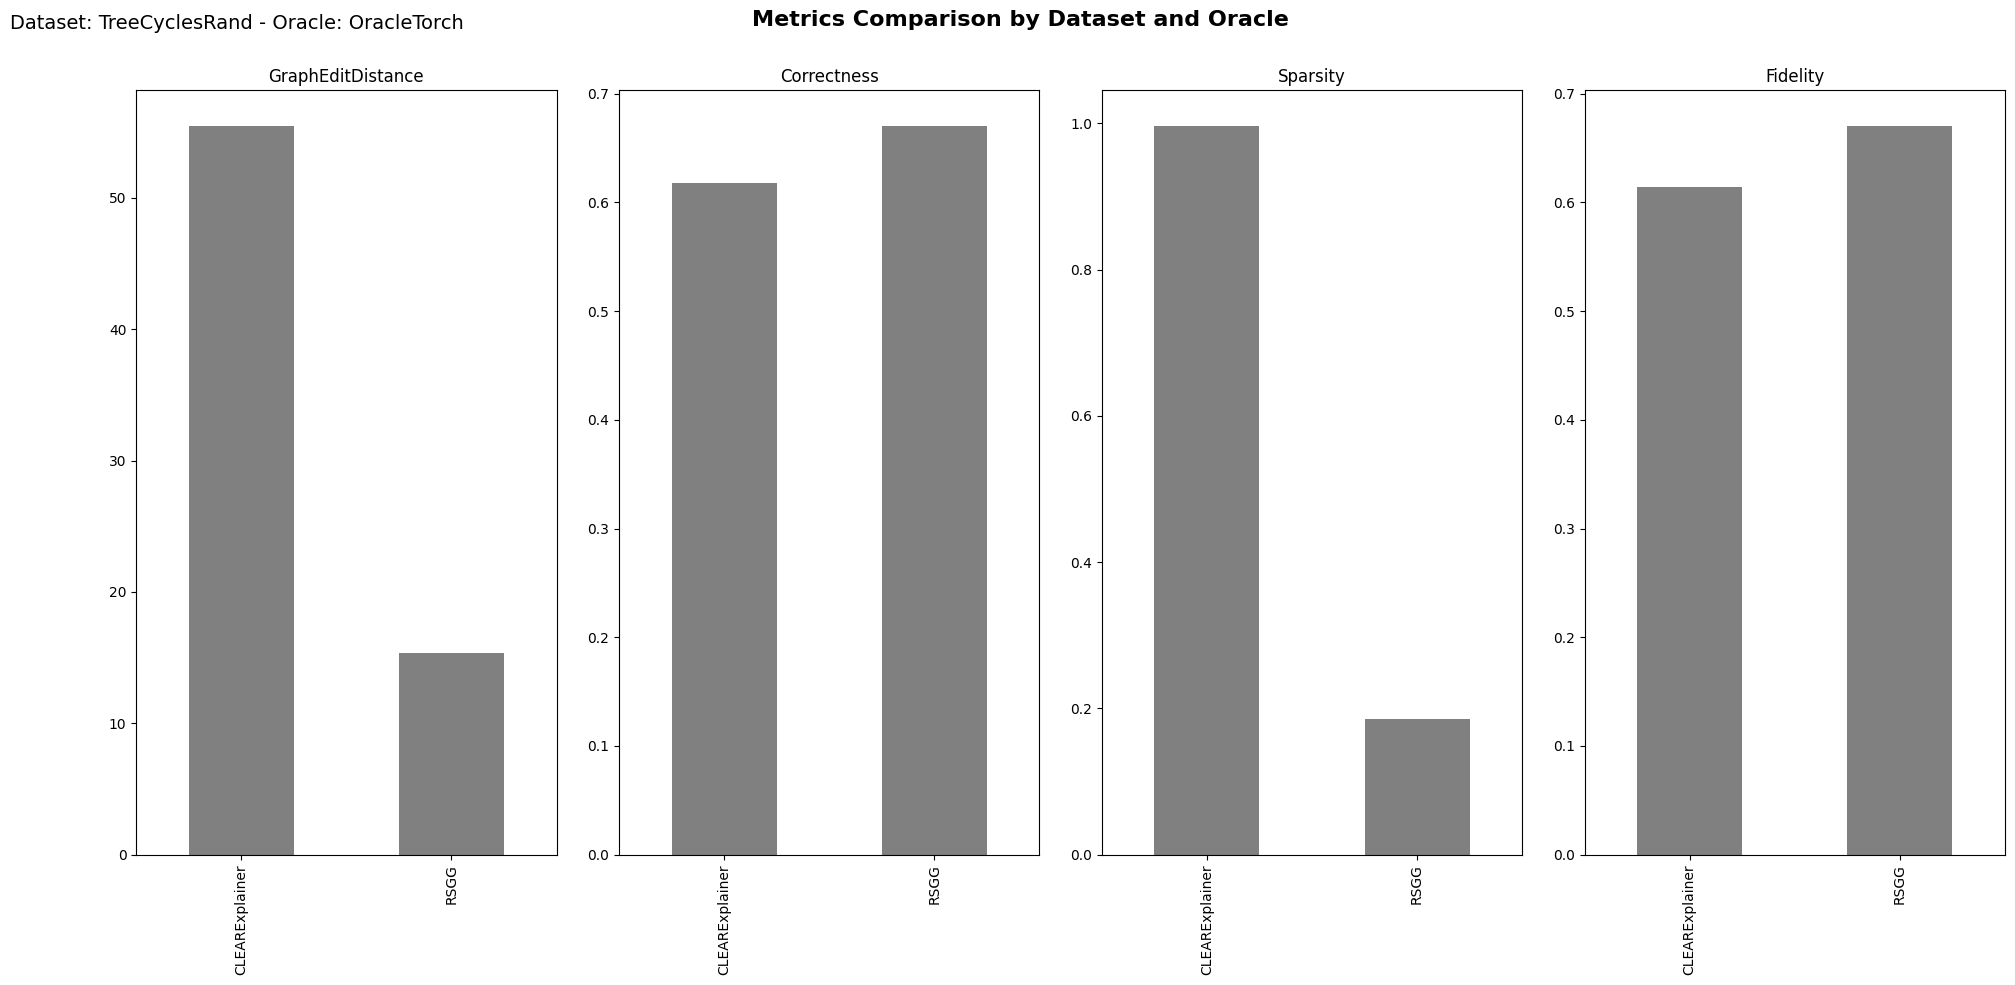
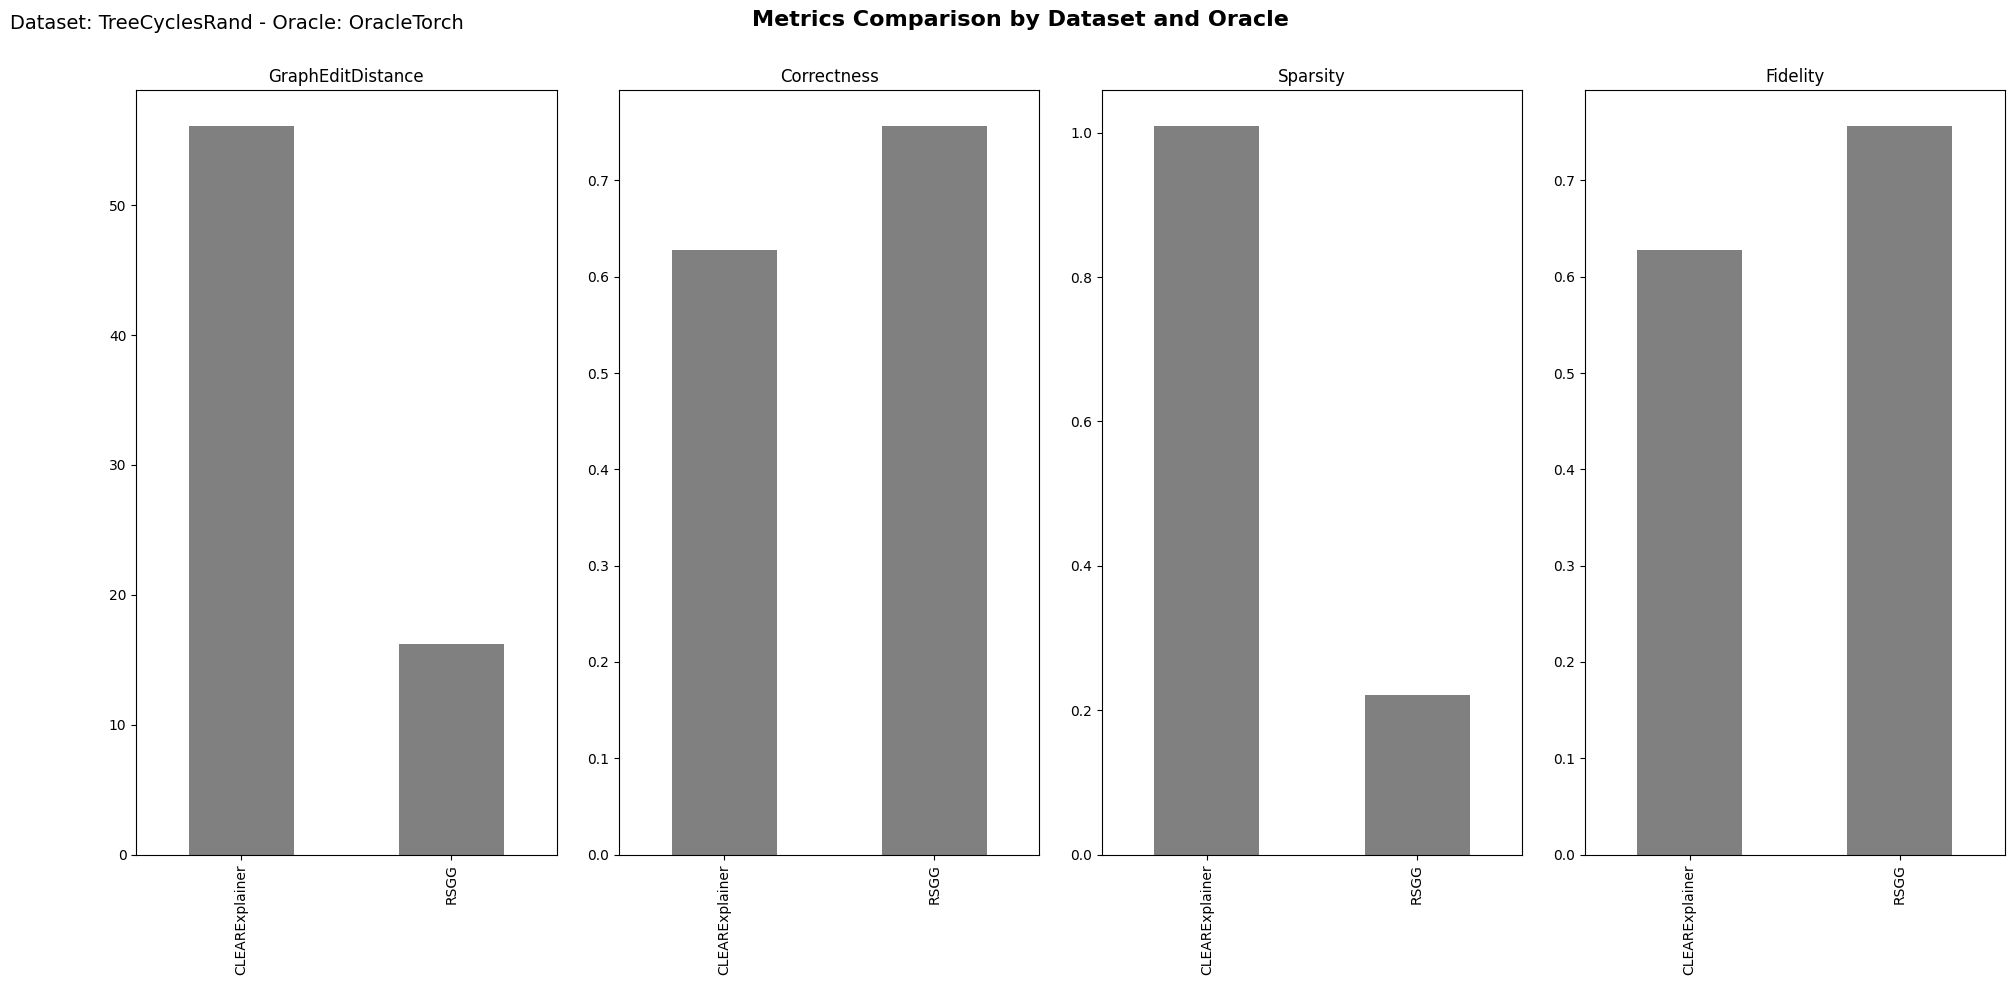
early stopping + tc64

diff --git a/src/data_analysis/data_analyzer.py b/src/data_analysis/data_analyzer.py
@@ -80,6 +80,8 @@ class DataAnalyzer():
                 # Aggregate the measures
                 aggregated_metrics = []
                 for m_class, m_value in results_dict['results'].items():
+                    if 'Metric' not in m_class:
+                        continue
                     metric_name = m_class.split('.')[-1]
                     if first_iteration: # The metric names are only needed the first time
                          metric_names.append(metric_name)

diff --git a/src/utils/visualize.py b/src/utils/visualize.py
@@ -5,7 +5,7 @@ import matplotlib.pyplot as plt
 
 output = os.path.join("visualizations", "methods_comparison_tc28_gcn.png")
 
-results_path = os.path.join("output","processed_results","tcr_gcn.csv")
+results_path = os.path.join("output","processed_results","tc28_gcn.csv")
 results_file = pd.read_csv(results_path, index_col=0)
 old_results = pd.read_csv( os.path.join("output/old_results_tcr.csv"), index_col=0 )
 
